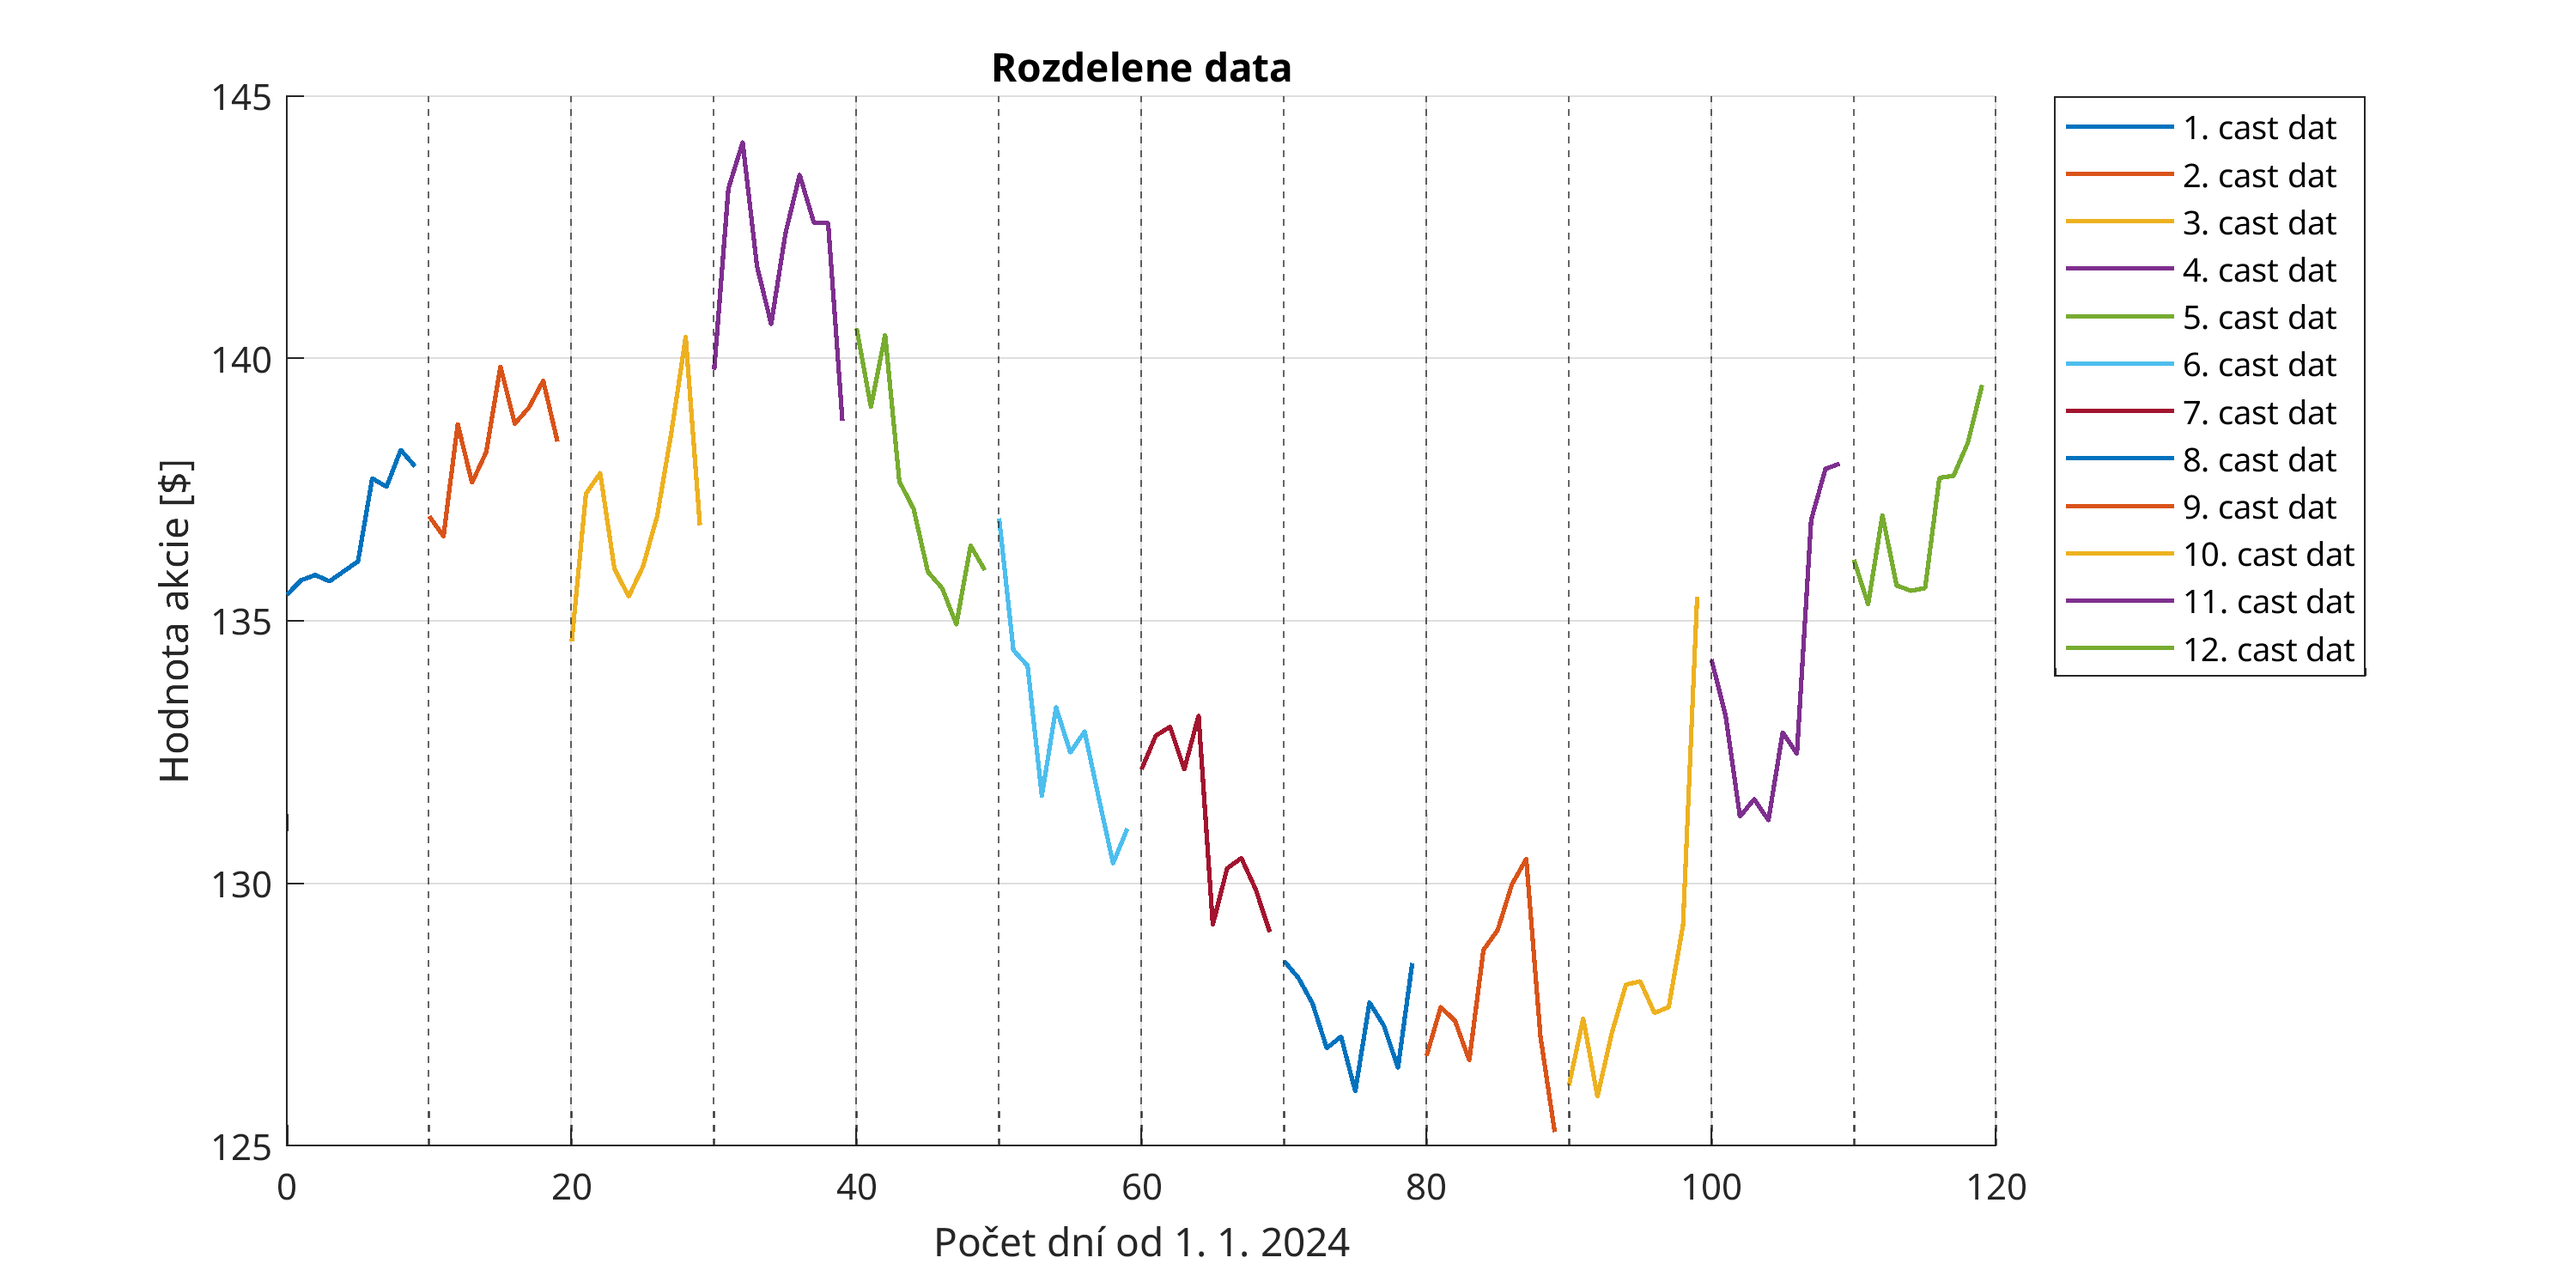
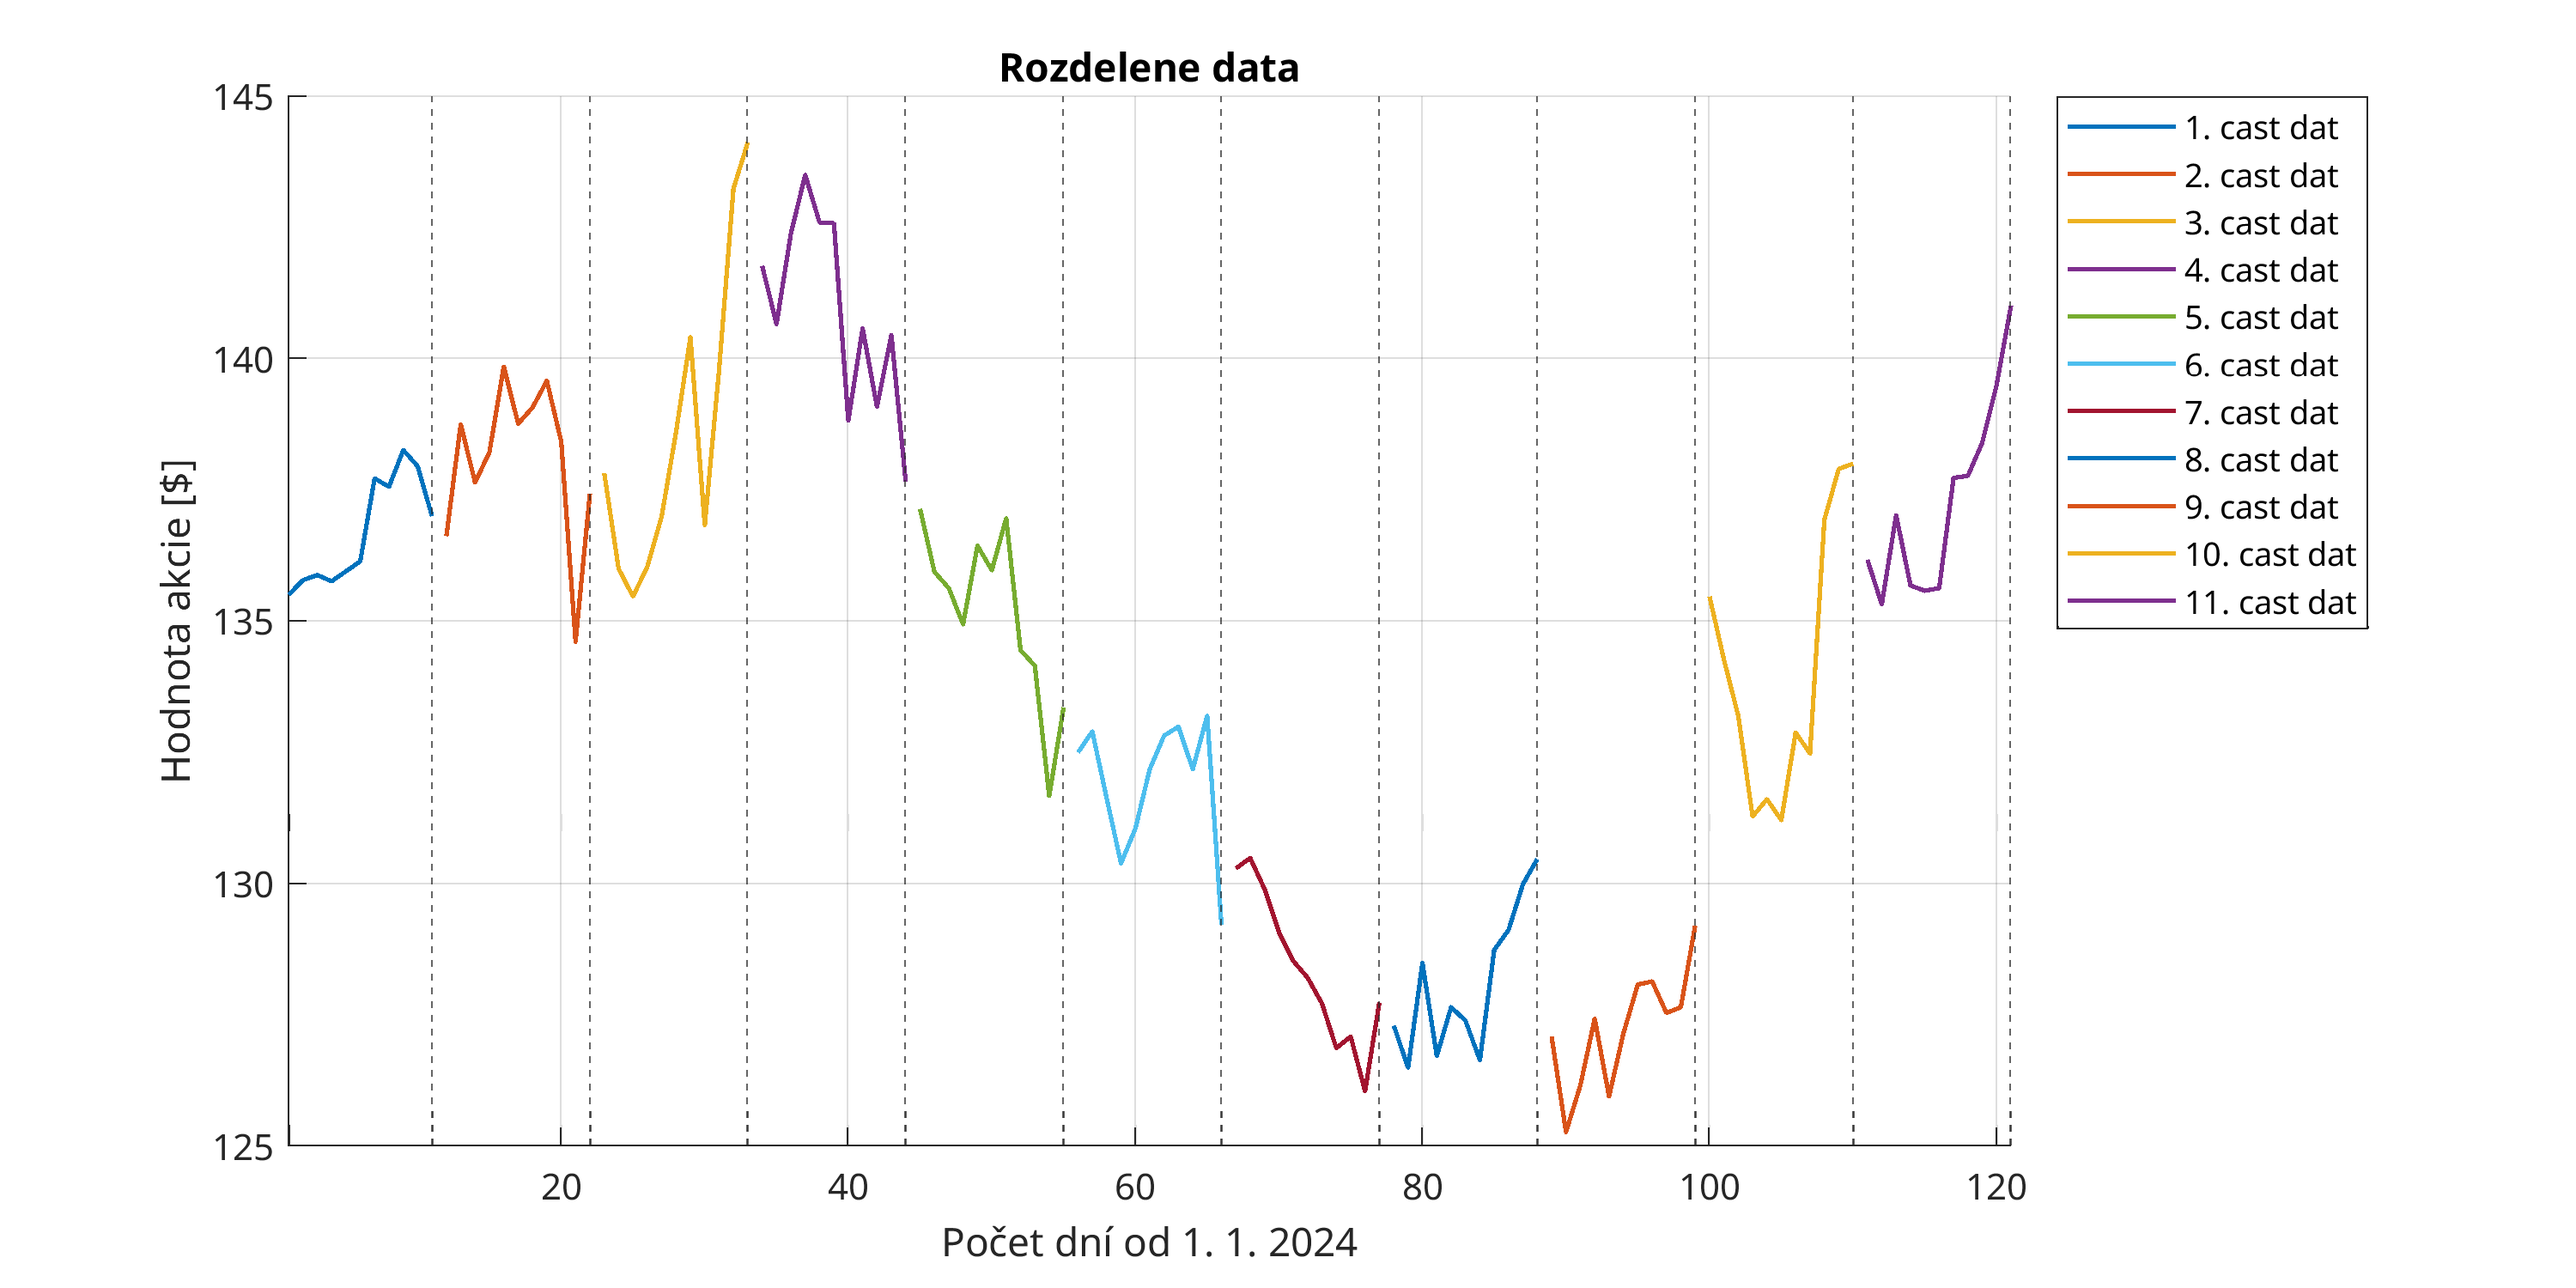
datova matica 11x11

diff --git a/data/zadanie7.m b/data/zadanie7.m
@@ -2,24 +2,21 @@ clear; close all;
 import = readmatrix("matlabized_data2.csv");
 f_full = import(:, 2)';
 t_full = import(:, 1)';
+F = reshape(f_full(1:121), 11, 11);  % premeni data na 11x11 maticu
+F = F';
 
-figure; hold on; grid on; legend; xlim([1 120]); title("Dáta - hodnoty akcií spoločnosti EA"); xlabel("Počet dní od 1. 1. 2024"); ylabel("Hodnota akcie [$]");
-plot(t_full, f_full, DisplayName="Povodne data")
+figure; hold on; grid on; legend; xlim([1 120]); title("Dáta - hodnoty akcií spoločnosti EA"); xlabel("Počet dní od 1. 1. 2024"); ylabel("Hodnota akcie [$]"); 
+plot(t_full, f_full, DisplayName="Povodne data"); 
 
-for i = 0:11
-    f{i+1} = f_full(i*10+1: i*10+10);
-    t{i+1} = linspace(i*10, i*10+9, 10);
-end 
-
-figure; hold on; grid on; legend(Location="northeastoutside"); title("Rozdelene data"); xlabel("Počet dní od 1. 1. 2024"); ylabel("Hodnota akcie [$]");
-for i = 1:12
-    plot(t{i}, f{i}, LineWidth=1.25, DisplayName=sprintf("%d. cast dat", i));
-    xline(i*10, "--", HandleVisibility="off");
+figure; hold on; grid on; legend(Location="northeastoutside"); title("Rozdelene data"); xlabel("Počet dní od 1. 1. 2024"); ylabel("Hodnota akcie [$]"); xlim([1 121]); 
+for i = 1:11
+    plot(linspace(i*11-10, i*11, 11), f_full(i*11-10: i*11), LineWidth=1.25, DisplayName=sprintf("%d. cast dat", i))
+    xline(i*11, "--", HandleVisibility="off");
 end
 
-figure; hold on; grid on; legend(Location="northeastoutside"); title("Rozdelene data - spolu");
-for i = 1:12 
-    plot(f{i}, LineWidth=1.25, DisplayName=sprintf("%d. cast dat", i));
+figure; hold on; grid on; legend(Location="northeastoutside"); title("Rozdelene data v jednom grafe"); xlabel("Počet dní od 1. 1. 2024"); ylabel("Hodnota akcie [$]");
+for i = 1:11
+    plot(F(i, :), DisplayName=sprintf("%d. cast dat", i));
 end
 
 
